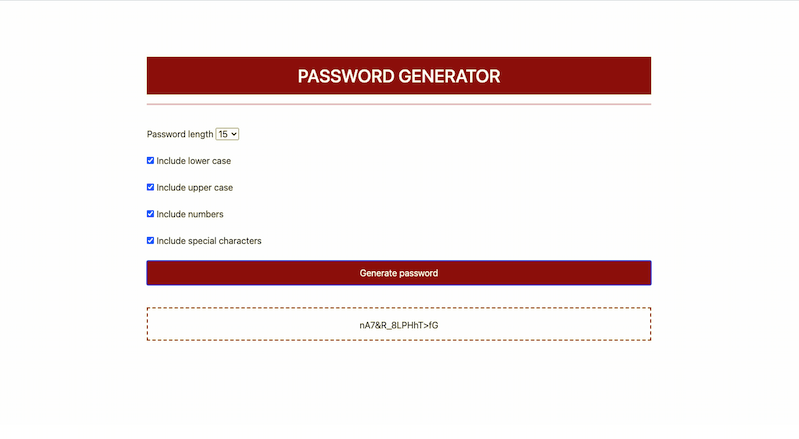
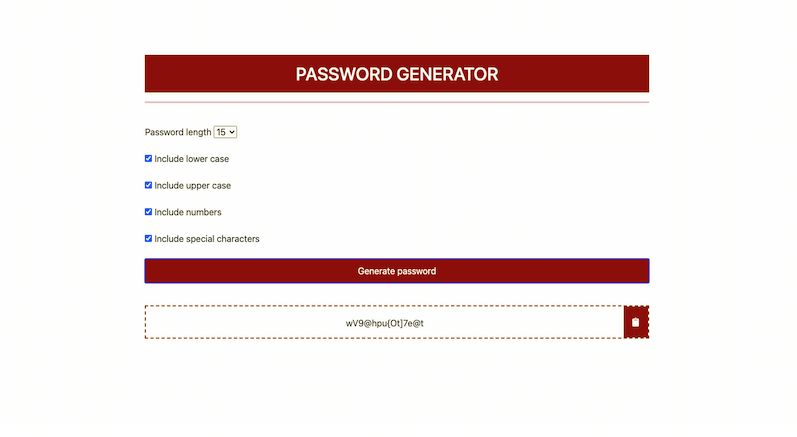
add clipboard

diff --git a/version-02/script2.js b/version-02/script2.js
@@ -73,9 +73,24 @@ $(document).ready(function () {
 
     function displayPass() {
 
-        var display = genPass();
-        var displayBox = document.querySelector("#display");
-        displayBox.textContent = display;
+        let display = genPass();
+        let displayBox = document.querySelector("#display");
+        let result = displayBox.textContent = display;
+
+        let clipboard = document.querySelector("#clipboard");
+        clipboard.addEventListener("click", function () {
+            let textarea = document.createElement("textarea");
+            textarea.textContent = result;
+
+            document.body.appendChild(textarea);
+            textarea.select();
+            document.execCommand("copy");
+            textarea.remove();
+            if (!result) {
+                return;
+            };
+            alert('Password copied to clipboard');
+        });
 
         if (lowerCase.checked === false &&
             upperCase.checked === false &&

diff --git a/version-02/index2.html b/version-02/index2.html
@@ -7,6 +7,10 @@
     <meta name="viewport" content="width=device-width, initial-scale=1.0">
     <title>Password Generator (version 2)</title>
     <link rel="stylesheet" type="text/css" href="style2.css">
+
+    <!-- Font-awesome -->
+    <link rel="stylesheet" href="https://cdnjs.cloudflare.com/ajax/libs/font-awesome/5.15.1/css/all.min.css">
+
     <script src="https://code.jquery.com/jquery-3.5.1.js"
         integrity="sha256-QWo7LDvxbWT2tbbQ97B53yJnYU3WhH/C8ycbRAkjPDc=" crossorigin="anonymous"></script>
 
@@ -74,9 +78,11 @@
 
             <p id="alert"></p>
             <div id="dashed">
+                <span id="clipboard" type="button">
+                    <i class="fa fa-clipboard"></i>
+                </span>
                 <div id="display"></div>
             </div>
-            
         </form>
     </div>
 

diff --git a/version-02/style2.css b/version-02/style2.css
@@ -36,3 +36,15 @@ form {
     margin-bottom: 2%;
     height: 50px;
 }
+#clipboard {
+    position: relative;
+    float: right;
+    border-color: transparent;
+    background-color: #8A0512;
+    color: white;
+    padding: 16px;
+    z-index: 1;
+}
+#result {
+    /* border-color: transparent; */
+}

diff --git a/README.md b/README.md
@@ -28,4 +28,4 @@ The criteria includes:
 
 ### Version 2
 
-A form in presented to the user to choose the character types for the password, including password length from a dropdown list, lowercase, uppercase, numeric, and special characters in a series of checkboxes. The password length ranges from 8 to 20 characters. A random password is generated which includes the chosen criteria will be displayed in the dashed box at the bottom of the form.
+A form in presented to the user to choose the character types for the password, including password length from a dropdown list, lowercase, uppercase, numeric, and special characters in a series of checkboxes. The password length ranges from 8 to 20 characters. A random password is generated which includes the chosen criteria will be displayed in the dashed box at the bottom of the form. The generated password can be copied to clipboard by clicking the clipboard icon.
